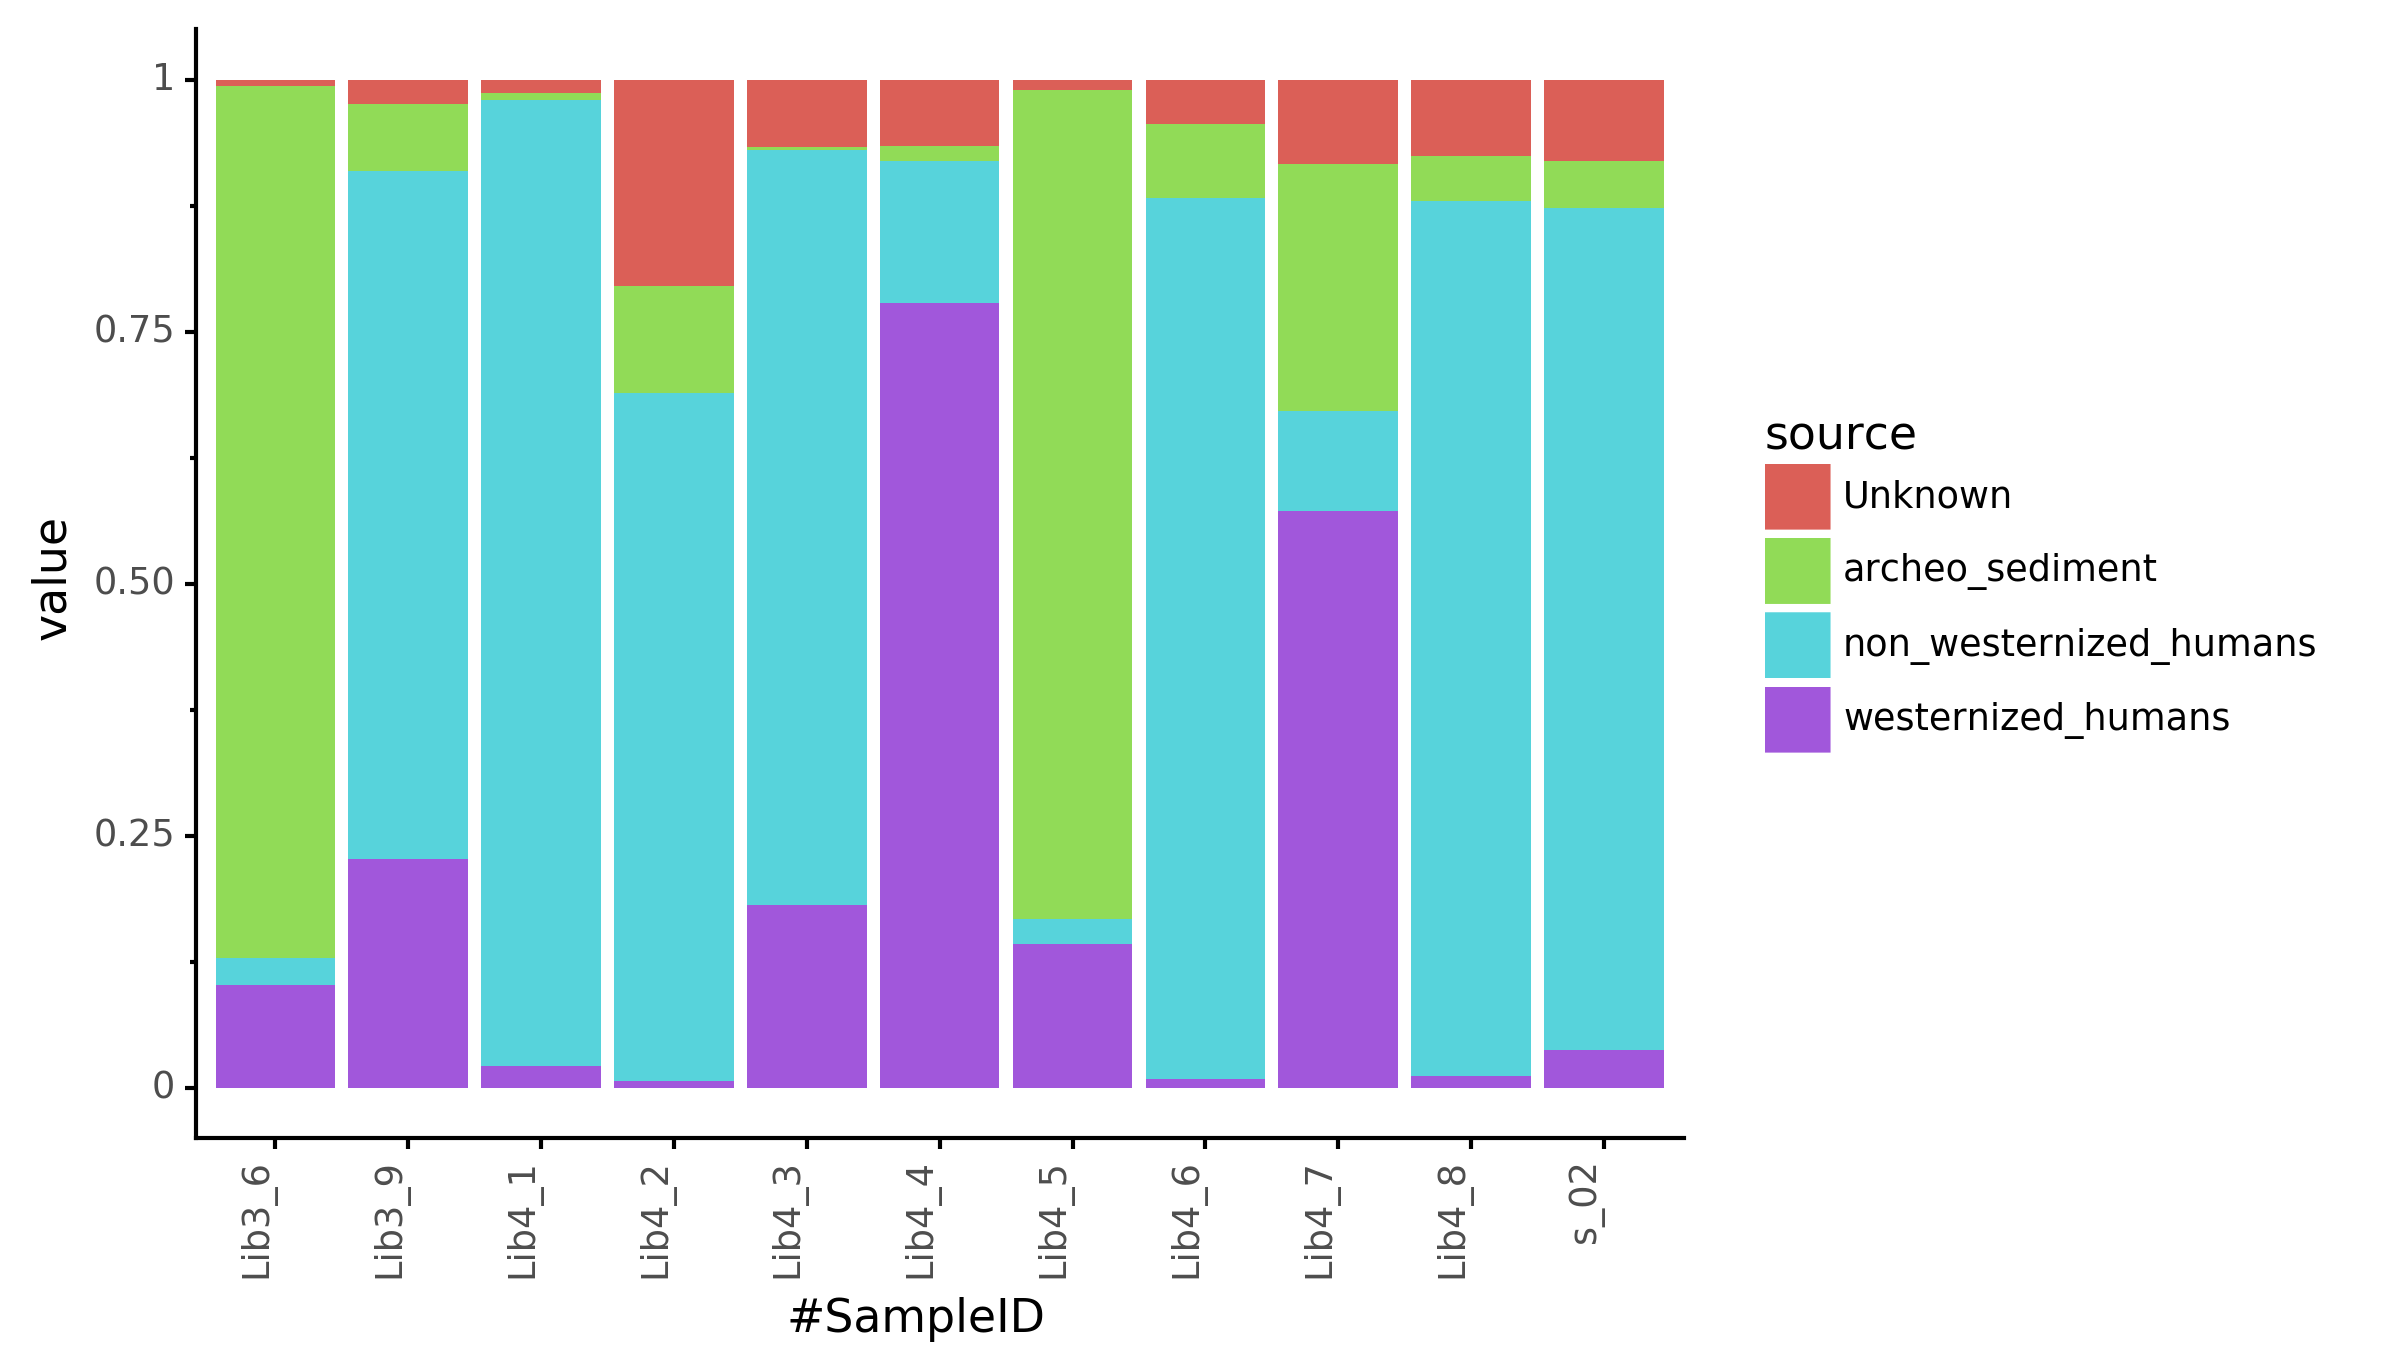
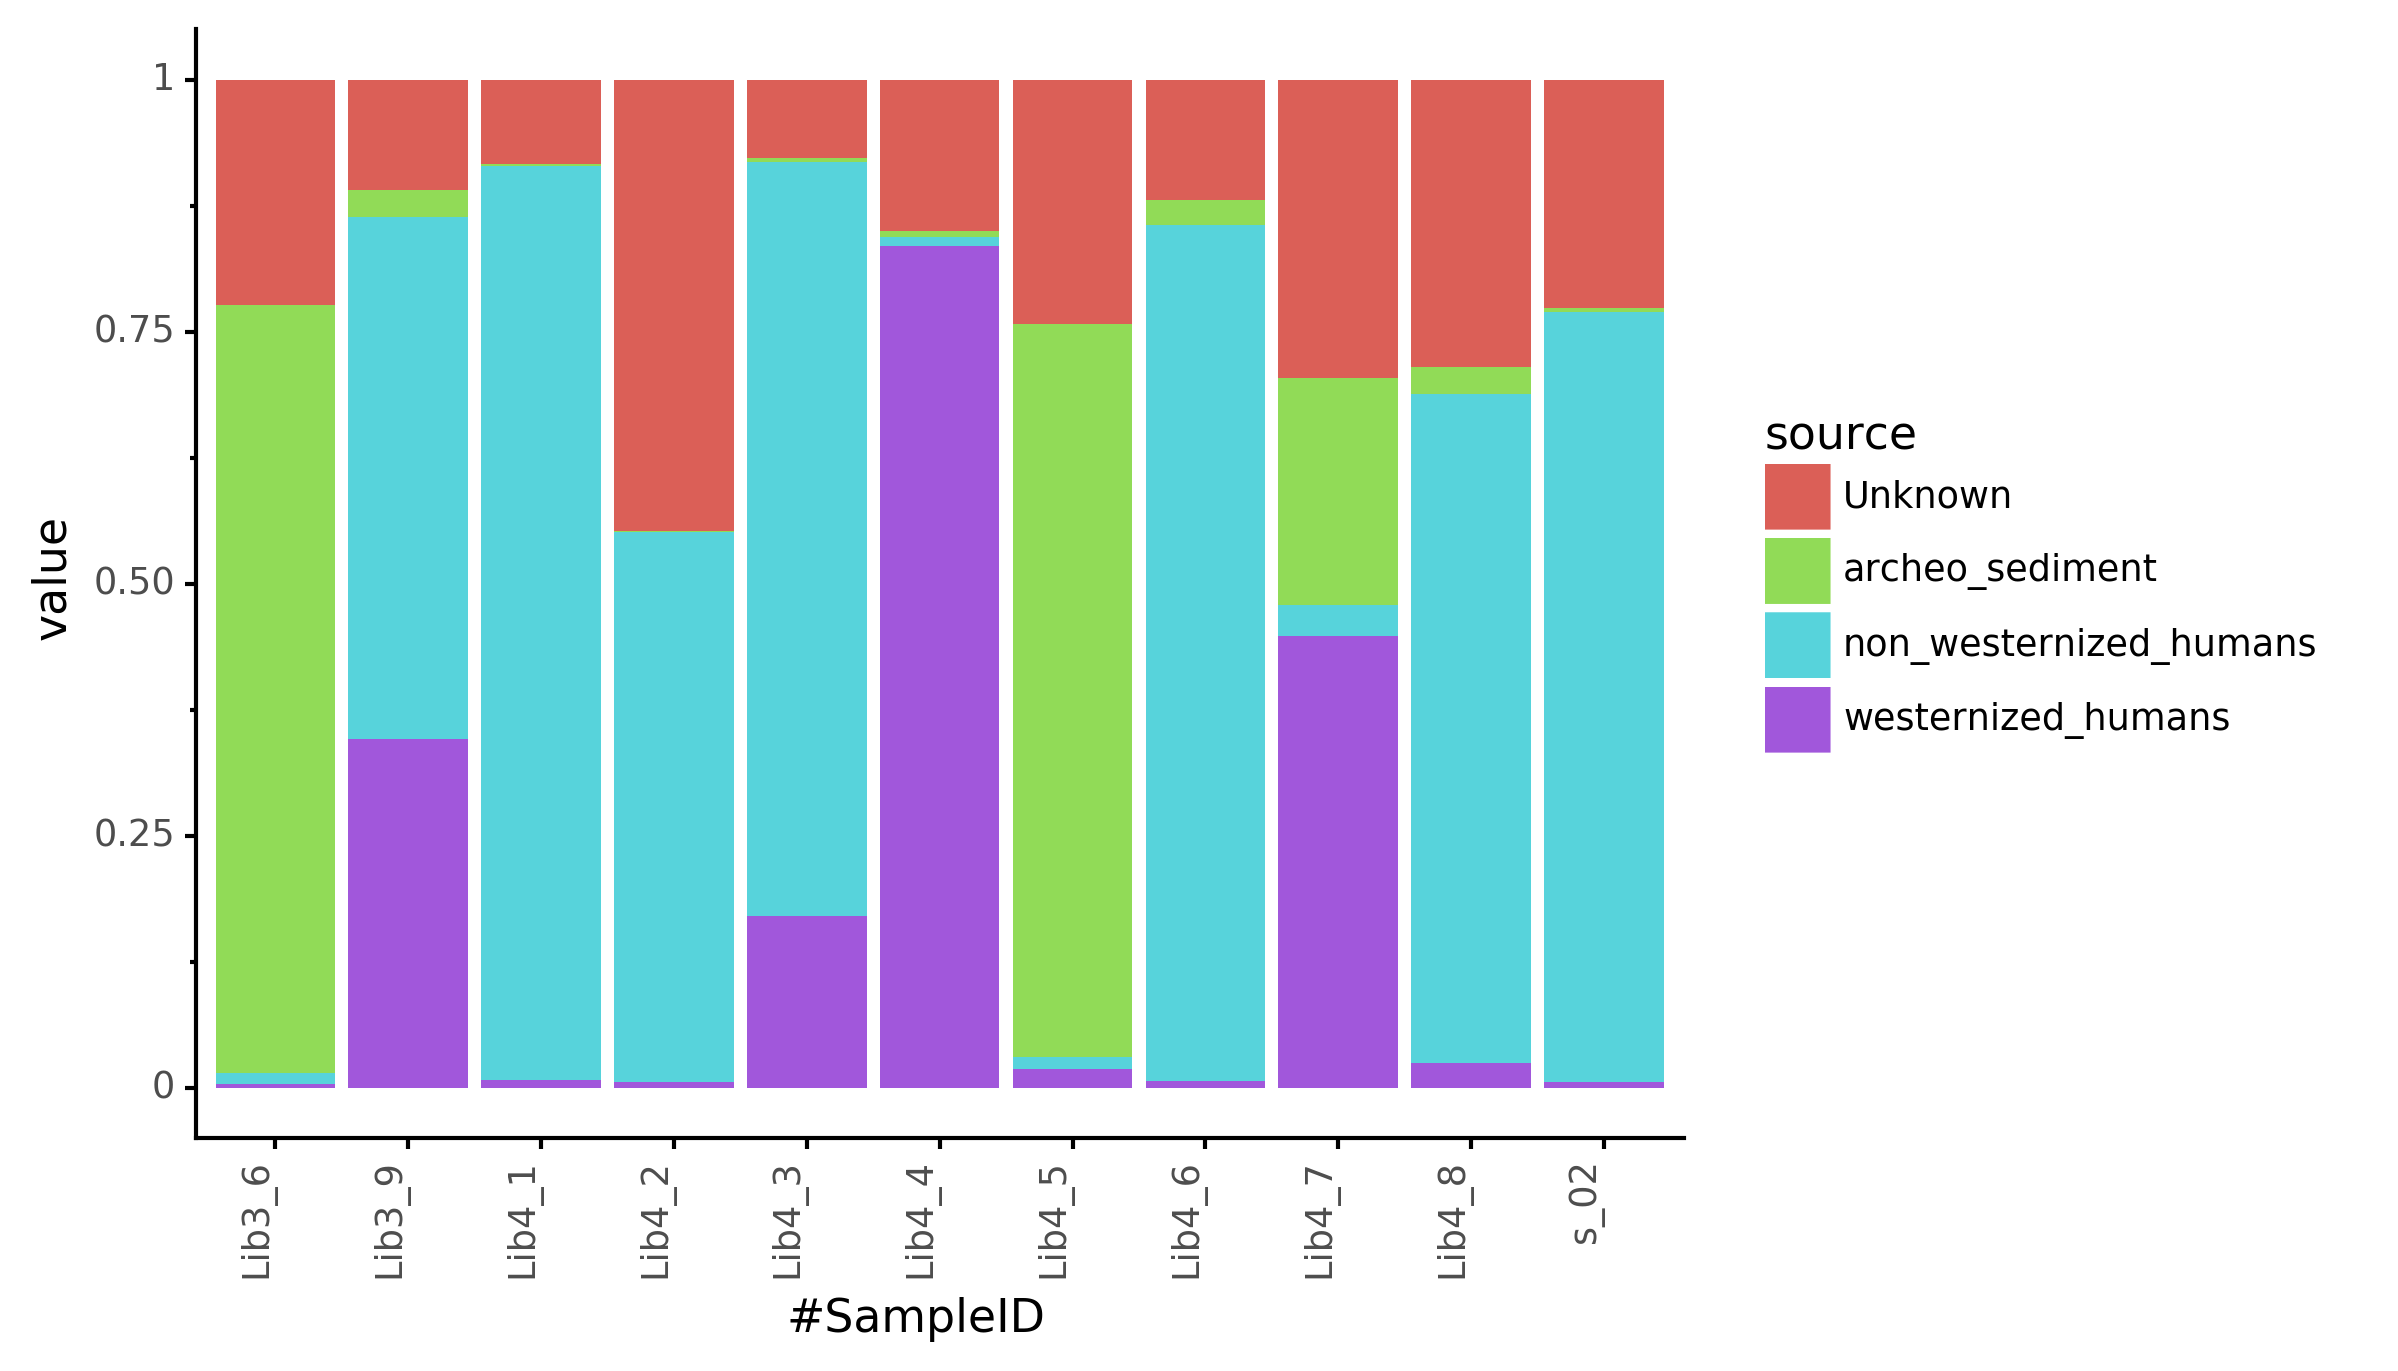
st2 results

diff --git a/README.md b/README.md
@@ -1,1 +1,8 @@
 # wibowo_kostic_coprolite
+
+- Selection of curatedMetagenomics samples: [curated_metagenomics/sample_modern_guts.Rmd](curated_metagenomics/sample_modern_guts.Rmd)
+- Running metaphlan with [metaphan-nf](https://github.com/maxibor/metaphlan-nf) of [archeological soil-sediments](PRJEB18629)
+- Preparing samples for [SourceTracker2](create_st2_inputs.ipynb)
+- [SourceTracker2 results](sourcetracker2)
+
+![](sourcetracker2/sourcetracker2_sources.png)
